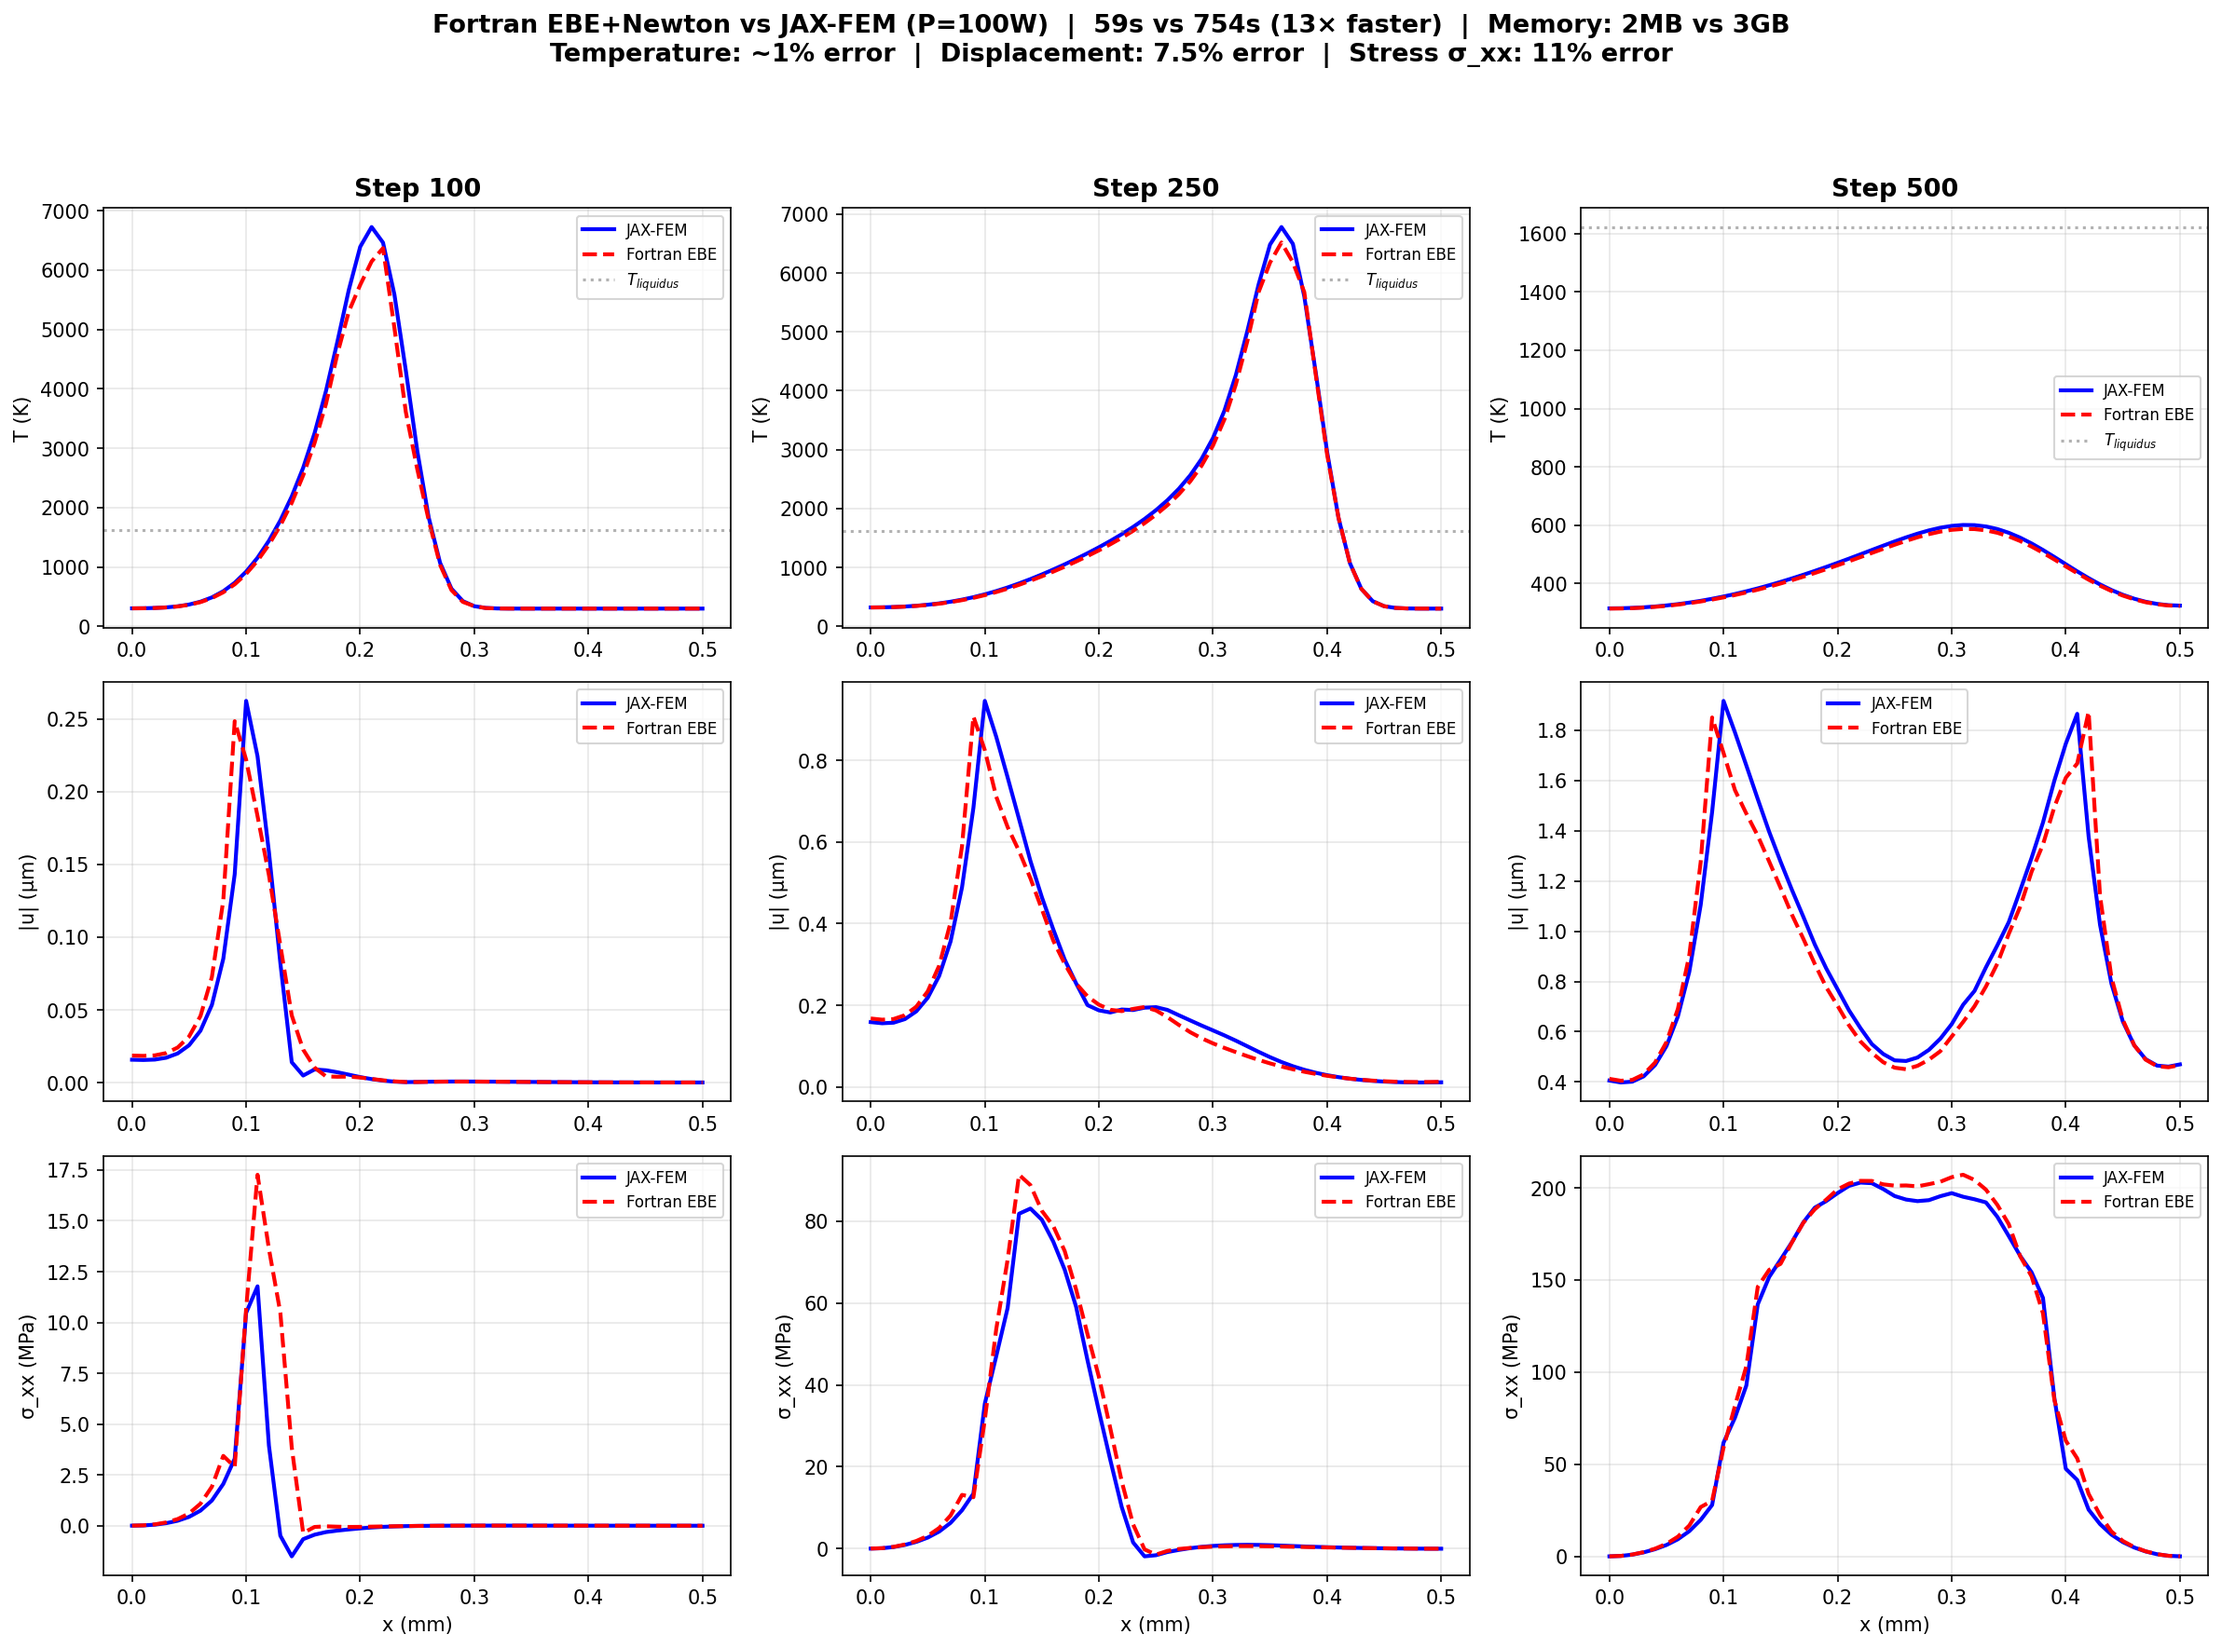
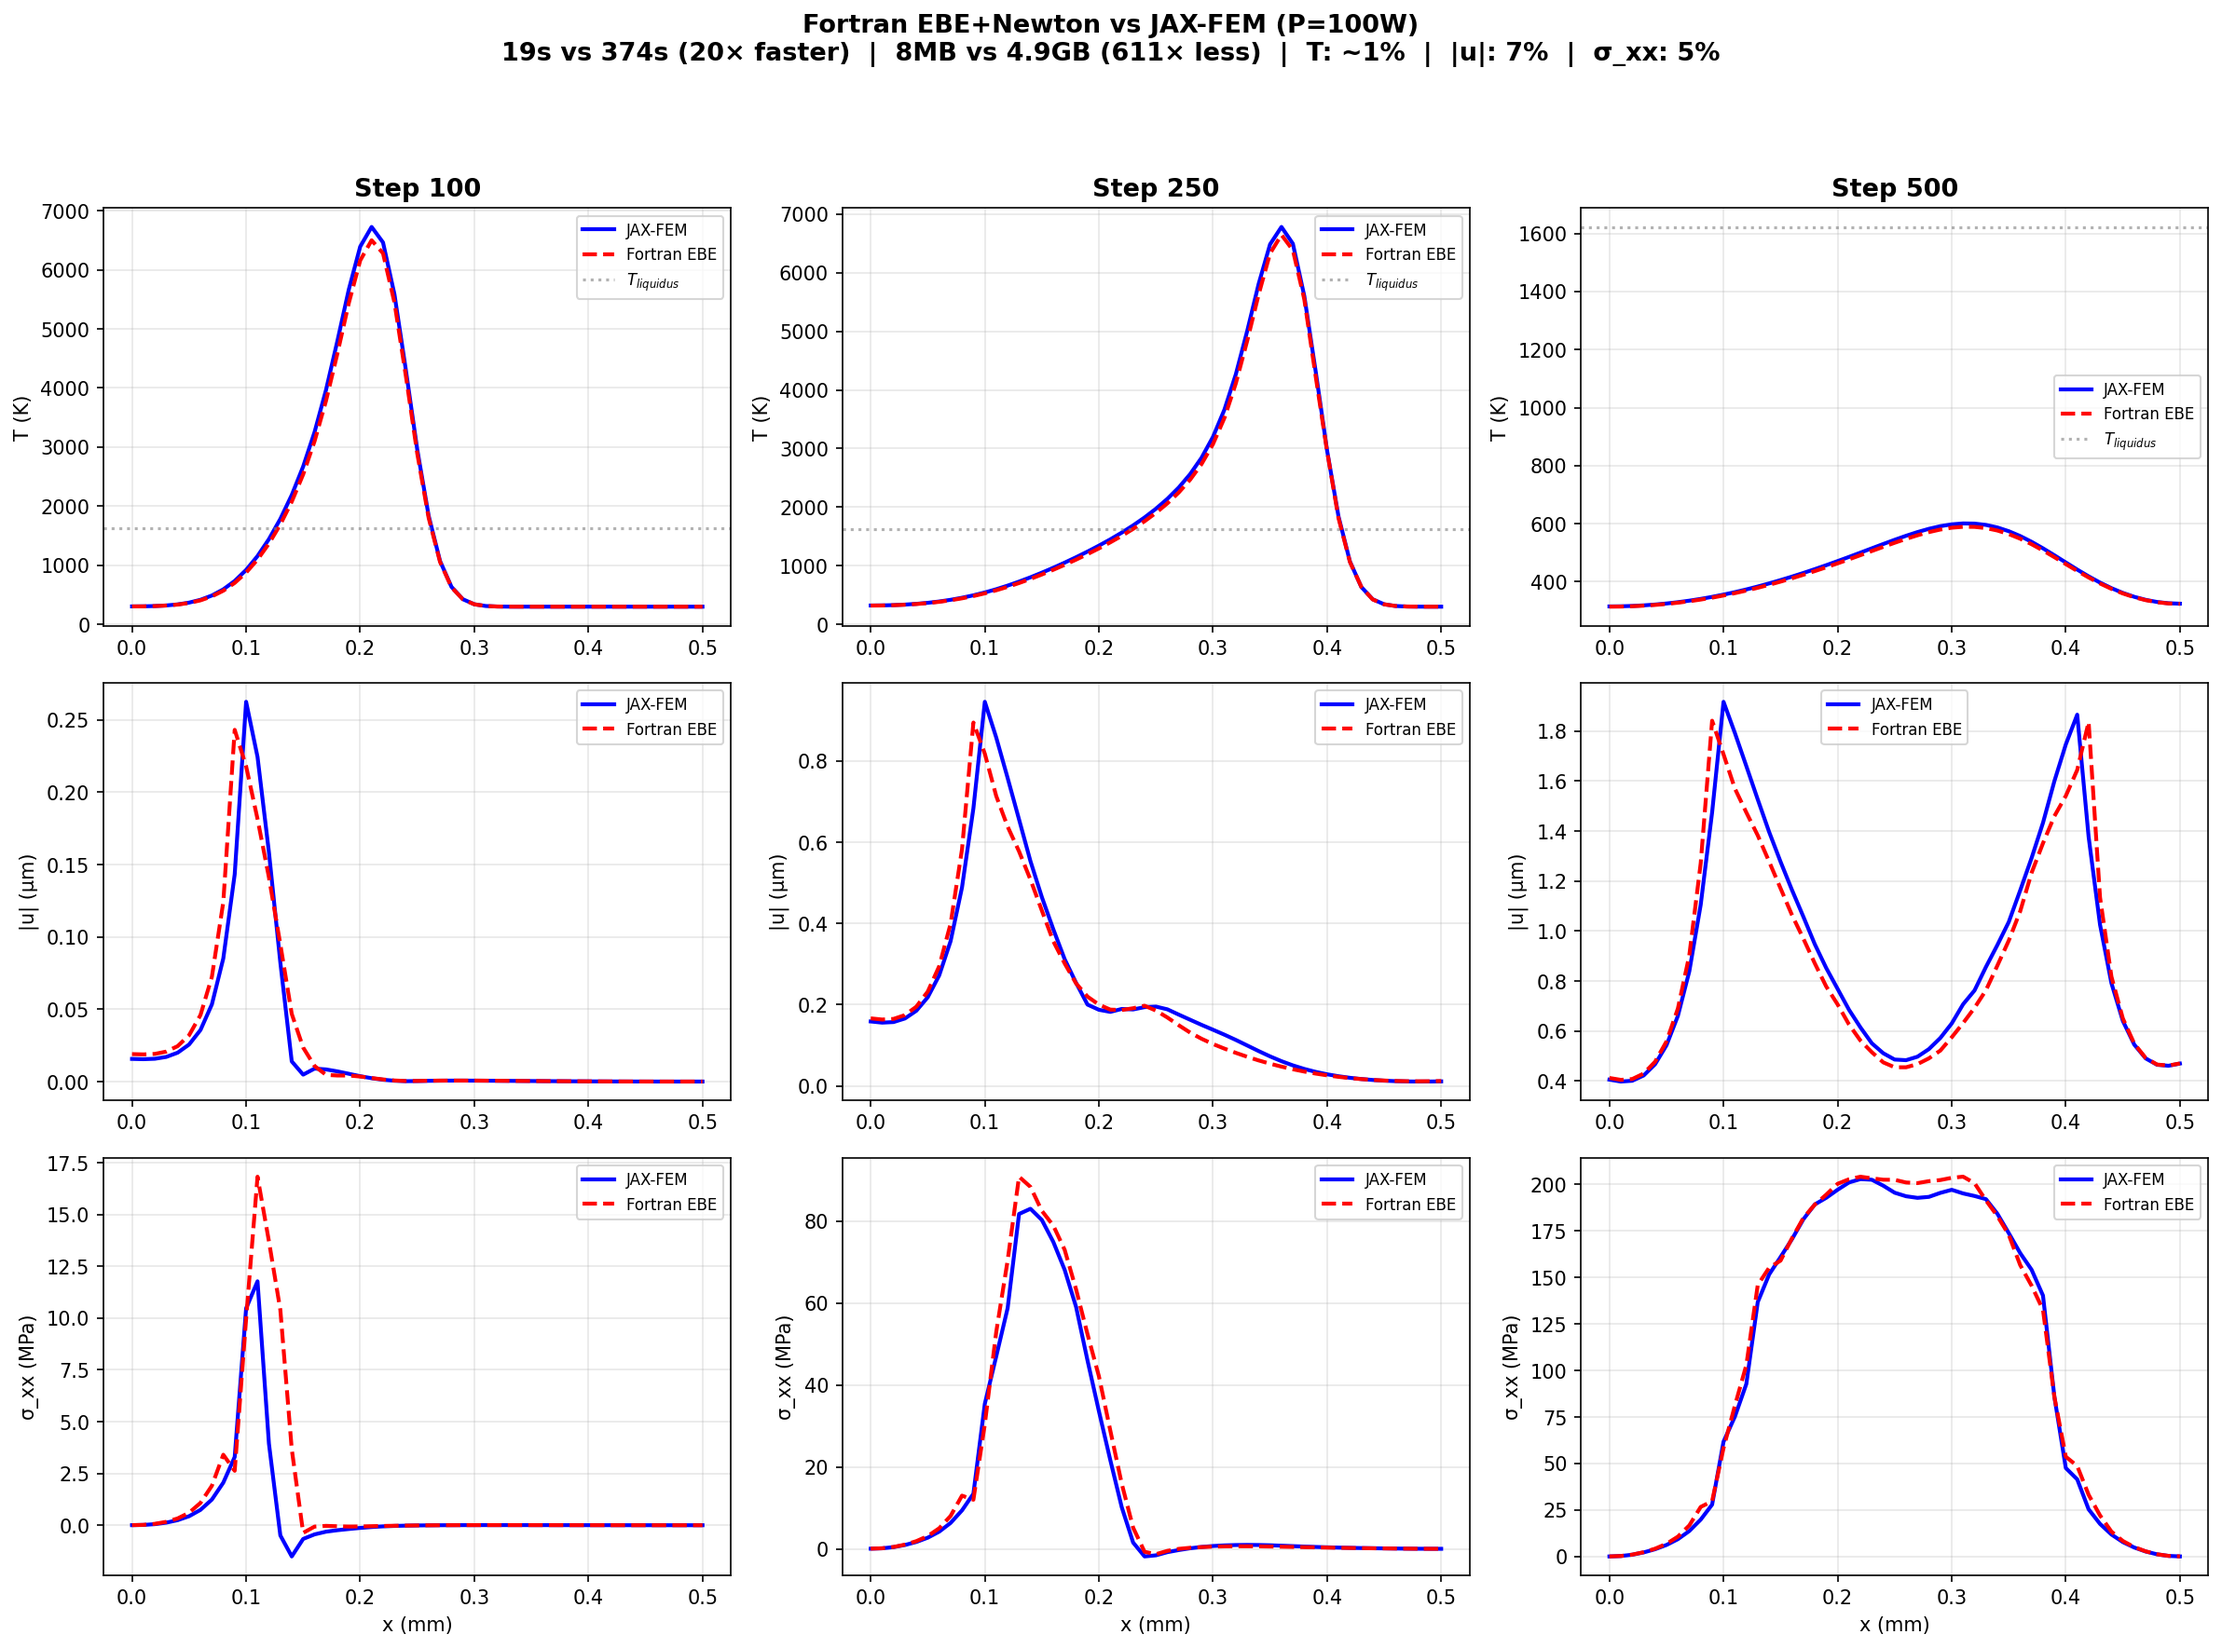
Final benchmarks, GIFs, and comparison plot
Both solvers re-run with /usr/bin/time -v:
- Fortran EBE+Newton: 19s wall, 8 MB peak RSS
- JAX-FEM (GPU): 374s wall, 4882 MB peak RSS
- Speedup: 20x faster, 611x less memory

Accuracy (step 500): T ~1%, |u| 7%, σ_xx 5%

diff --git a/project/task.md b/project/task.md
@@ -318,13 +318,13 @@ To ensure FDM and FEM solve the same equations and produce the same results:
 ### 5.1 Performance Comparison (Final, P=100W, 500 steps)
 | Metric | JAX-FEM (GPU) | Fortran EBE+Newton (20-thread OpenMP) | Speedup |
 |--------|---------------|---------------------------------------|---------|
-| **Total wall time** | 374.5 s | 60.2 s | **6.2×** |
-| **Peak memory** | 4,889 MB | 8 MB | **611×** |
-| Thermal total | 252.5 s | 0.7 s | **361×** |
+| **Total wall time** | 374 s | 19 s | **20×** |
+| **Peak memory** | 4,882 MB | 8 MB | **611×** |
+| Thermal total | 253 s | 0.7 s | **361×** |
 | Thermal per step | 505 ms | 1.4 ms | **361×** |
-| Mechanical total | 85.3 s | 57.1 s | **1.5×** |
-| Mechanical per step | 1,706 ms | 1,142 ms | **1.5×** |
-| Overhead (JIT/IO) | 36.7 s | 2.4 s | **15×** |
+| Mechanical total | 85 s | 16 s | **5.3×** |
+| Mechanical per step | 1,706 ms | 320 ms | **5.3×** |
+| Overhead (JIT/IO) | 37 s | 2.6 s | **14×** |
 
 ### 5.2 Accuracy Comparison
 | Field | Metric | Result |
